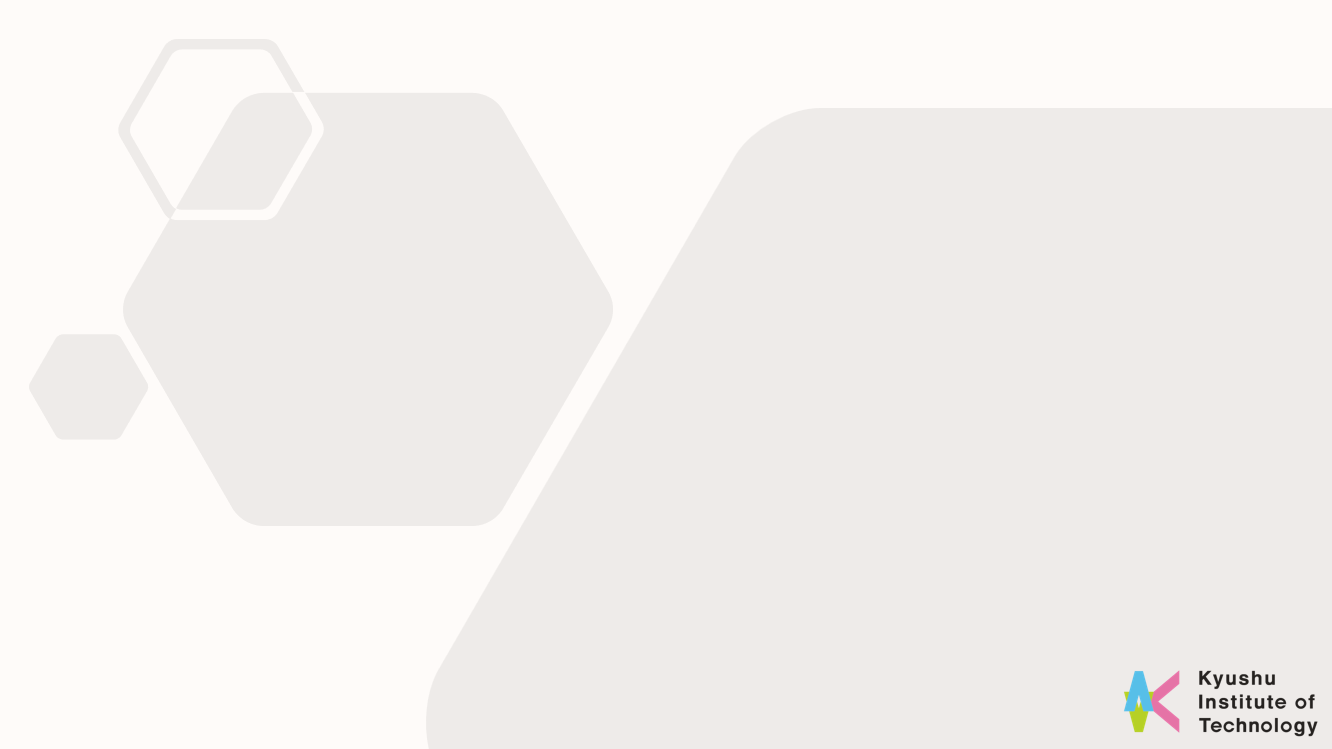
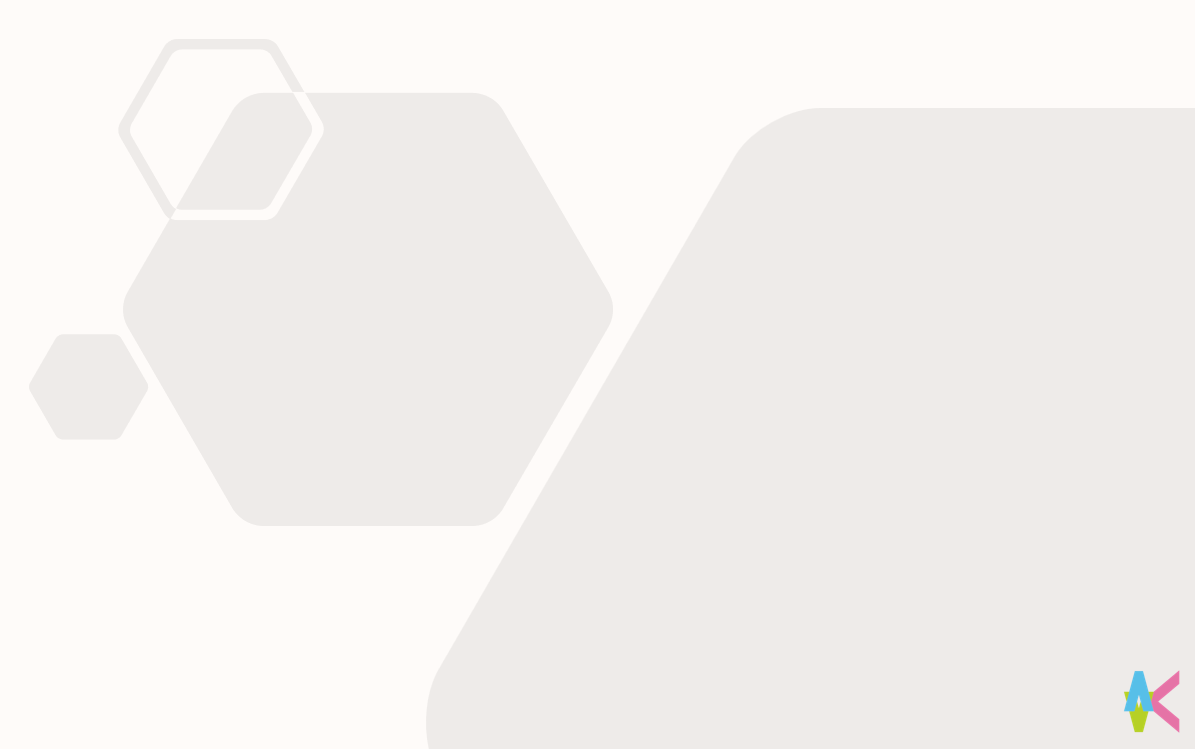
update

Changed region(s): [[0.836, 0.8905, 0.9908, 0.9826]]

diff --git a/assets/css/stylesheet.c0bc5397c47289b6b395cd22d25492a194bec78556b727e34a45e0264eb4318d.css b/assets/css/stylesheet.c0bc5397c47289b6b395cd22d25492a194bec78556b727e34a45e0264eb4318d.css
@@ -1,0 +1,7 @@
+/*
+  PaperMod v8+
+  License: MIT https://github.com/adityatelange/hugo-PaperMod/blob/master/LICENSE
+  Copyright (c) 2020 nanxiaobei and adityatelange
+  Copyright (c) 2021-2026 adityatelange
+*/
+:root{--gap:24px;--content-gap:20px;--nav-width:1024px;--main-width:720px;--header-height:60px;--footer-height:60px;--radius:8px;--theme:rgb(255, 255, 255);--entry:rgb(255, 255, 255);--primary:rgb(30, 30, 30);--secondary:rgb(108, 108, 108);--tertiary:rgb(214, 214, 214);--content:rgb(31, 31, 31);--code-block-bg:rgb(28, 29, 33);--code-bg:rgb(245, 245, 245);--border:rgb(238, 238, 238);color-scheme:light}:root[data-theme=dark]{--theme:rgb(29, 30, 32);--entry:rgb(46, 46, 51);--primary:rgb(218, 218, 219);--secondary:rgb(155, 156, 157);--tertiary:rgb(65, 66, 68);--content:rgb(196, 196, 197);--code-block-bg:rgb(46, 46, 51);--code-bg:rgb(55, 56, 62);--border:rgb(51, 51, 51);color-scheme:dark}.list{background:var(--code-bg)}[data-theme=dark] .list{background:var(--theme)}*,::after,::before{box-sizing:border-box}html{-webkit-tap-highlight-color:transparent;overflow-y:scroll;-webkit-text-size-adjust:100%;text-size-adjust:100%}a,button,body,h1,h2,h3,h4,h5,h6{color:var(--primary)}body{font-family:-apple-system,BlinkMacSystemFont,segoe ui,Roboto,Oxygen,Ubuntu,Cantarell,open sans,helvetica neue,sans-serif;font-size:18px;line-height:1.6;word-break:break-word;background:var(--theme)}article,aside,figcaption,figure,footer,header,hgroup,main,nav,section,table{display:block}h1,h2,h3,h4,h5,h6{line-height:1.2}h1,h2,h3,h4,h5,h6,p{margin-top:0;margin-bottom:0}ul{padding:0}a{text-decoration:none}body,figure,ul{margin:0}table{width:100%;border-collapse:collapse;border-spacing:0;overflow-x:auto;word-break:keep-all}button,input,textarea{padding:0;font:inherit;background:0 0;border:0}input,textarea{outline:0}button,input[type=button],input[type=submit]{cursor:pointer}input:-webkit-autofill,textarea:-webkit-autofill{box-shadow:0 0 0 50px var(--theme)inset}img{display:block;max-width:100%}.not-found{position:absolute;left:0;right:0;display:flex;align-items:center;justify-content:center;height:80%;font-size:160px;font-weight:700}.archive-posts{width:100%;font-size:16px}.archive-year{margin-top:40px}.archive-year:not(:last-of-type){border-bottom:2px solid var(--border)}.archive-month{display:flex;align-items:flex-start;padding:10px 0}.archive-month-header{margin:25px 0;width:200px}.archive-month:not(:last-of-type){border-bottom:1px solid var(--border)}.archive-entry{position:relative;padding:5px;margin:10px 0}.archive-entry-title{margin:5px 0;font-weight:400}.archive-count,.archive-meta{color:var(--secondary);font-size:14px}.footer,.top-link{font-size:12px;color:var(--secondary)}.footer{max-width:calc(var(--main-width) + var(--gap) * 2);margin:auto;padding:calc((var(--footer-height) - var(--gap))/2)var(--gap);text-align:center;line-height:24px}.footer span{margin-inline-start:1px;margin-inline-end:1px}.footer span:last-child{white-space:nowrap}.footer a{color:inherit;text-underline-offset:.25rem;text-decoration:underline}.top-link{position:fixed;bottom:4rem;right:2rem;z-index:99;background:var(--tertiary);width:2.5rem;height:2.5rem;padding:10px;border-radius:64px;transition:visibility .3s,opacity .3s cubic-bezier(.4,0,1,1)}.hidden{visibility:hidden;opacity:0}.top-link,.top-link svg{filter:drop-shadow(0 0 0 var(--theme))}.footer a:hover,.top-link:hover{color:var(--primary)}.header-nav{display:flex;flex-wrap:wrap;justify-content:space-between;max-width:calc(var(--nav-width) + var(--gap) * 2);margin:auto;line-height:var(--header-height);padding:0 var(--gap);column-gap:var(--gap)}.header-nav a{display:block}.logo,.menu{display:flex}.logo{align-items:center;column-gap:.55rem;flex-wrap:wrap}.logo a{font-size:24px;font-weight:700;display:flex;align-items:center;column-gap:.55rem}.logo a img,.logo a svg{pointer-events:none;border-radius:6px}.theme-toggle{padding:0 .4rem}[data-theme=dark] .moon{display:none}[data-theme=light] .sun{display:none}.logo-switches{display:inline-flex;gap:.4rem;align-items:inherit;min-height:stretch;flex-wrap:inherit}.logo-switches>*{min-height:inherit;align-items:center;display:inline-flex}.lang-menu *{display:inherit;min-height:inherit;align-items:inherit}.lang-menu a{font-size:1rem;font-weight:500;padding:0 .4rem;display:inline-flex}.menu{list-style:none;word-break:keep-all;overflow-x:auto;white-space:nowrap;column-gap:var(--gap)}.menu a{font-size:16px}.menu .active{font-weight:500;text-decoration:underline;text-underline-offset:.3rem;text-decoration-thickness:2px}.main{position:relative;min-height:calc(100vh - var(--header-height) - var(--footer-height));max-width:calc(var(--main-width) + var(--gap) * 2);margin:auto;padding:var(--gap)}.page-header h1{font-size:40px}.pagination{display:flex}.pagination a{color:var(--theme);font-size:13px;line-height:36px;background:var(--primary);border-radius:calc(36px/2);padding:0 16px}.pagination .next{margin-inline-start:auto}.social-icons a{display:inline-flex;padding:10px}.social-icons a svg{height:26px;width:26px}code{direction:ltr}div.highlight,pre{position:relative}.copy-code{display:none;position:absolute;top:4px;right:4px;color:rgba(255,255,255,.8);background:rgba(78,78,78,.8);border-radius:var(--radius);padding:0 5px;font-size:14px;user-select:none}div.highlight:hover .copy-code,pre:hover .copy-code{display:block}.md-content h3,.md-content h4,.md-content h5,.md-content h6{margin:24px 0 16px}.md-content h1{margin:40px auto 32px;font-size:40px}.md-content h2{margin:32px auto 24px;font-size:32px}.md-content h3{font-size:24px}.md-content h4{font-size:16px}.md-content h5{font-size:14px}.md-content h6{font-size:12px}.md-content a:not(.anchor){text-underline-offset:.3rem;text-decoration:underline}.md-content del{text-decoration:line-through}.md-content dl:not(:last-child),.md-content ol:not(:last-child),.md-content p:not(:last-child),.md-content figure:not(:last-child),.md-content ul:not(:last-child){margin-bottom:var(--content-gap)}.md-content ol,.md-content ul{padding-inline-start:1.25rem}.md-content li{margin-top:.3rem}.md-content li p{margin-bottom:0}.md-content dl{display:flex;flex-wrap:wrap;margin:0}.md-content dt{width:25%;font-weight:700}.md-content dd{width:75%;margin-inline-start:0;padding-inline-start:10px}.md-content dd~dd,.md-content dt~dt{margin-top:10px}.md-content table{margin-bottom:var(--content-gap)}.md-content table th,.md-content table:not(.highlighttable,.highlight table,.gist .highlight) td{min-width:80px;padding:6px 13px;line-height:1.5;border:1px solid var(--border)}.md-content table th{text-align:start}.md-content table:not(.highlighttable) td code:only-child{margin:auto 0}.md-content .highlight table{border-radius:var(--radius)}.md-content .highlight:not(table){margin-bottom:var(--content-gap);background:var(--code-block-bg)!important;border-radius:var(--radius);direction:ltr}.md-content li>.highlight{margin-inline-end:0}.md-content ul pre{margin-inline-start:calc(var(--gap) * -2)}.md-content .highlight pre{margin:0}.md-content .highlighttable{table-layout:fixed}.md-content .highlighttable td:first-child{width:40px}.md-content .highlighttable td .linenodiv{padding-inline-end:0!important}.md-content .highlighttable td .highlight,.md-content .highlighttable td .linenodiv pre{margin-bottom:0}.post-content code{padding:.2rem .3rem;font-size:.78em;line-height:1.5;background:var(--code-bg);border-radius:.2rem}.md-content pre code{display:grid;margin:auto 0;padding:10px;color:#d5d5d6;background:var(--code-block-bg)!important;border-radius:var(--radius);overflow-x:auto;word-break:break-all}.md-content blockquote{margin:1rem 0;padding-inline-start:1rem;border-inline-start:.3rem solid var(--content)}.md-content hr{margin:30px 0;height:2px;background:var(--tertiary);border:0}.md-content iframe{max-width:100%}.md-content img{border-radius:var(--radius);margin:1rem 0}.md-content img[src*="#center"]{margin:1rem auto}.md-content figure.align-center{text-align:center}.md-content figure>figcaption{color:var(--primary);font-size:16px;font-weight:700;margin:8px 0 16px}.md-content figure>figcaption>p{color:var(--secondary);font-size:14px;font-weight:400}.md-content h1:hover .anchor,.md-content h2:hover .anchor,.md-content h3:hover .anchor,.md-content h4:hover .anchor,.md-content h5:hover .anchor,.md-content h6:hover .anchor{display:inline-flex;color:var(--secondary);margin-inline-start:.5em;font-weight:500;user-select:none}.anchor:hover{color:var(--content)!important}.md-content img.in-text{display:inline;margin:auto}mark{border-radius:2px;padding:0 2px}audio{display:block;width:100%;border:1px solid var(--border);border-radius:var(--radius);overflow:hidden;height:2.5rem;margin-bottom:var(--content-gap)}audio::-webkit-media-controls-enclosure{border-radius:0}video{border:1px solid var(--code-bg);border-radius:var(--radius);max-width:100%}.first-entry{position:relative;display:flex;flex-direction:column;justify-content:center;min-height:320px;margin:var(--gap)0 calc(var(--gap) * 2)}.first-entry .entry-header{overflow:hidden;display:-webkit-box;-webkit-box-orient:vertical;-webkit-line-clamp:3}.first-entry .entry-header h1{font-size:34px;line-height:1.3}.first-entry .entry-header h2{font-size:40px}.first-entry .entry-content{margin:14px 0;font-size:16px;-webkit-line-clamp:3}.first-entry .entry-footer{font-size:14px}.home-info .entry-content{--content-gap:0.5rem;-webkit-line-clamp:unset;margin:0}.home-info .social-icons a:first-of-type{padding-inline-start:0}.post-entry{position:relative;margin-bottom:var(--gap);padding:var(--gap);background:var(--entry);border-radius:var(--radius);transition:transform .25s ease;border:1px solid var(--border)}.post-entry:hover,.post-entry:focus-within{transform:translateY(-2px);border-color:var(--tertiary)}.tag-entry .entry-cover{display:none}.entry-header h2{font-size:24px;line-height:1.3}.entry-content{margin:8px 0;color:var(--secondary);font-size:14px;line-height:1.6;overflow:hidden;display:-webkit-box;-webkit-box-orient:vertical;-webkit-line-clamp:2}.home-info .entry-content p{margin-block-start:1em;margin-block-end:1em}.entry-footer{color:var(--secondary);font-size:13px}.entry-link{position:absolute;left:0;right:0;top:0;bottom:0;border-radius:var(--radius)}.entry-hint{color:var(--secondary)}.entry-hint-parent{display:flex;justify-content:space-between}.entry-cover{font-size:14px;margin-bottom:var(--gap);text-align:center;display:flex;flex-direction:column;gap:.5rem}.entry-cover img{border-radius:var(--radius);width:100%;height:auto}.entry-cover a{text-underline-offset:.3rem;text-decoration:underline}.page-header,.post-header{margin:24px auto var(--content-gap)}.post-title{font-size:40px}.post-description{margin-top:10px}.post-meta{margin-top:5px}.post-meta,.breadcrumbs{color:var(--secondary);font-size:14px}.breadcrumbs{display:flex;flex-wrap:wrap;align-items:center;gap:.2rem}.breadcrumbs a{font-size:16px}.breadcrumbs svg{height:1em}.i18n_list{display:inline-flex}.post-meta .i18n_list li{list-style:none;margin:auto 3px}.post-meta a,.toc a:hover{text-underline-offset:.3rem;text-decoration:underline}.post-meta a{color:var(--secondary);text-decoration-style:dotted}details.toc{margin-bottom:var(--content-gap);background:var(--code-bg);border-radius:var(--radius);border:1px solid var(--border)}[data-theme=dark] details.toc{background:var(--entry)}details.toc summary{padding:.5rem 1.2rem;border-radius:var(--radius)}details summary{cursor:pointer;display:list-item;width:100%;margin-inline-start:0;user-select:none}details .title{display:inline;font-weight:500;margin-inline-start:.2rem}details{interpolate-size:allow-keywords}details::details-content{height:0;opacity:0;overflow:clip;transition:height 150ms ease,opacity 150ms ease,content-visibility 150ms allow-discrete}details[open]::details-content{height:auto;opacity:1}details .inner{margin:0 2.4rem;padding-bottom:.6rem}details li ul{margin-inline-start:var(--gap)}.post-content{color:var(--content);margin:30px 0}.post-footer{margin-top:var(--content-gap)}.post-footer>*{margin-bottom:10px}.post-tags{display:flex;flex-wrap:wrap;gap:10px}.post-tags li{display:inline-block}.post-tags a,.share-buttons,.paginav{border-radius:var(--radius);background:var(--code-bg);border:1px solid var(--border)}.post-tags a{display:block;padding:0 14px;color:var(--secondary);font-size:14px;line-height:34px;background:var(--code-bg)}.post-tags a:hover,.paginav a:hover{background:var(--border)}.share-buttons{padding:10px;display:flex;justify-content:center;overflow-x:auto;gap:10px}.share-buttons li,.share-buttons a{display:inline-flex}.share-buttons a:not(:last-of-type){margin-inline-end:12px}.paginav{display:flex;line-height:1.2}.paginav .title{letter-spacing:1px;text-transform:uppercase;font-size:.8rem;color:var(--secondary)}.paginav a{width:50%;display:flex;flex-direction:column;gap:.5rem;padding:.8rem;border-radius:var(--radius)}.paginav span:hover:not(.title){text-underline-offset:.2rem;text-decoration:underline}.paginav .next{margin-inline-start:auto;text-align:right}[dir=rtl] .paginav .next{text-align:left}h1>a>svg{display:inline}.buttons,.main .profile{display:flex;justify-content:center}.main .profile{align-items:center;min-height:calc(100vh - var(--header-height) - var(--footer-height) - (var(--gap) * 2));text-align:center}.profile .profile_inner{display:flex;flex-direction:column;align-items:center;gap:1rem}.profile img{border-radius:50%}.buttons{flex-wrap:wrap;max-width:400px;gap:1rem}.button{background:var(--tertiary);border-radius:var(--radius);padding:.4rem .8rem}.searchbox input{padding:4px 10px;width:100%;color:var(--primary);font-weight:700;border:2px solid var(--tertiary);border-radius:var(--radius)}.searchResults li{list-style:none;border-radius:var(--radius);padding:10px 15px;position:relative;font-weight:500;display:flex;align-items:center;justify-content:space-between;background:var(--entry);transition:transform .25s ease;border:1px solid var(--border)}.searchResults{margin:var(--content-gap)0;width:100%;display:flex;flex-direction:column;gap:10px}.searchResults li:hover,.searchResults li:focus-within{transform:translateY(-2px);border-color:var(--tertiary)}.searchResults li .entry-link:focus{outline:2px solid var(--secondary);outline-offset:-2px}.terms-tags{display:flex;flex-wrap:wrap;gap:1em;margin-top:var(--content-gap)}.terms-tags li{display:inline-block;font-weight:500}.terms-tags a{display:block;padding:4px 10px;background:var(--tertiary);border-radius:var(--radius);transition:transform .1s}.bg{color:#cad3f5;background-color:#24273a}.chroma{color:#cad3f5;background-color:#24273a}.chroma .err{color:#ed8796}.chroma .lnlinks{outline:none;text-decoration:none;color:inherit}.chroma .lntd{vertical-align:top;padding:0;margin:0;border:0}.chroma .lntable{border-spacing:0;padding:0;margin:0;border:0}.chroma .hl{background-color:#474733}.chroma .lnt{white-space:pre;-webkit-user-select:none;user-select:none;margin-right:.4em;padding:0 .4em;color:#8087a2}.chroma .ln{white-space:pre;-webkit-user-select:none;user-select:none;margin-right:.4em;padding:0 .4em;color:#8087a2}.chroma .line{display:flex}.chroma .k{color:#c6a0f6}.chroma .kc{color:#f5a97f}.chroma .kd{color:#ed8796}.chroma .kn{color:#8bd5ca}.chroma .kp{color:#c6a0f6}.chroma .kr{color:#c6a0f6}.chroma .kt{color:#ed8796}.chroma .na{color:#8aadf4}.chroma .nb{color:#91d7e3}.chroma .bp{color:#91d7e3}.chroma .nc{color:#eed49f}.chroma .no{color:#eed49f}.chroma .nd{color:#8aadf4;font-weight:700}.chroma .ni{color:#8bd5ca}.chroma .ne{color:#f5a97f}.chroma .nf{color:#8aadf4}.chroma .fm{color:#8aadf4}.chroma .nl{color:#91d7e3}.chroma .nn{color:#f5a97f}.chroma .py{color:#f5a97f}.chroma .nt{color:#c6a0f6}.chroma .nv{color:#f4dbd6}.chroma .vc{color:#f4dbd6}.chroma .vg{color:#f4dbd6}.chroma .vi{color:#f4dbd6}.chroma .vm{color:#f4dbd6}.chroma .s{color:#a6da95}.chroma .sa{color:#ed8796}.chroma .sb{color:#a6da95}.chroma .sc{color:#a6da95}.chroma .dl{color:#8aadf4}.chroma .sd{color:#6e738d}.chroma .s2{color:#a6da95}.chroma .se{color:#8aadf4}.chroma .sh{color:#6e738d}.chroma .si{color:#a6da95}.chroma .sx{color:#a6da95}.chroma .sr{color:#8bd5ca}.chroma .s1{color:#a6da95}.chroma .ss{color:#a6da95}.chroma .m{color:#f5a97f}.chroma .mb{color:#f5a97f}.chroma .mf{color:#f5a97f}.chroma .mh{color:#f5a97f}.chroma .mi{color:#f5a97f}.chroma .il{color:#f5a97f}.chroma .mo{color:#f5a97f}.chroma .o{color:#91d7e3;font-weight:700}.chroma .ow{color:#91d7e3;font-weight:700}.chroma .c{color:#6e738d;font-style:italic}.chroma .ch{color:#6e738d;font-style:italic}.chroma .cm{color:#6e738d;font-style:italic}.chroma .c1{color:#6e738d;font-style:italic}.chroma .cs{color:#6e738d;font-style:italic}.chroma .cp{color:#6e738d;font-style:italic}.chroma .cpf{color:#6e738d;font-weight:700;font-style:italic}.chroma .gd{color:#ed8796;background-color:#363a4f}.chroma .ge{font-style:italic}.chroma .gr{color:#ed8796}.chroma .gh{color:#f5a97f;font-weight:700}.chroma .gi{color:#a6da95;background-color:#363a4f}.chroma .gs{font-weight:700}.chroma .gu{color:#f5a97f;font-weight:700}.chroma .gt{color:#ed8796}.chroma .gl{text-decoration:underline}.chroma{background-color:unset!important}.chroma .hl{display:flex}.chroma .lnt{padding:0 0 0 12px}.highlight pre.chroma code{padding:8px 0}.highlight pre.chroma .line .cl,.chroma .ln{padding:0 10px}.chroma .lntd:last-of-type{width:100%}@media screen and (max-width:768px){:root{--gap:14px}.profile img{transform:scale(.85)}.first-entry{min-height:260px}.archive-month{flex-direction:column}.archive-year{margin-top:20px}.footer{padding:calc((var(--footer-height) - var(--gap) - 10px)/2)var(--gap)}}@media screen and (max-width:900px){.list .top-link{transform:translateY(-5rem)}}@media screen and (max-width:340px){.share-buttons{justify-content:unset}}@media(prefers-reduced-motion){.terms-tags a:active,.button:active,.post-entry:active,.top-link,.searchResults .focus,.searchResults li:active{transform:none}}.faculty,.students{display:flex;flex-wrap:wrap}.card{text-align:center;margin:15px;width:150px}.faculty-card img{width:150px;height:150px;object-fit:cover;border-radius:8px}.student-card img{width:100px;height:100px;object-fit:cover;border-radius:8px;display:block;margin:0 auto}.name{margin-top:8px;font-weight:700;font-size:13px;position:static;transform:none}.role{font-size:.8em}.alumni summary{list-style:none}.alumni summary::-webkit-details-marker{display:none}.alumni summary{font-weight:700;cursor:pointer;padding:10px 15px;background:#f5f5f5;border-radius:8px;position:relative;transition:.2s}.alumni summary:hover{background:#eaeaea}.alumni summary::after{content:"+";position:absolute;right:15px;font-size:18px;transition:.2s}.alumni[open] summary::after{content:"−"}.alumni ul{margin-top:8px;padding-left:20px}.alumni ul{list-style:none;padding-left:0}body::before{content:"";position:fixed;top:0;left:0;width:100%;height:100%;background-image:url(/Materials-strength-website/images/bg1.png);background-size:cover;opacity:.6;z-index:-1}.header,.nav{background-color:rgba(0,0,0,.194);backdrop-filter:blur(8px);border-bottom:1px solid rgba(255,255,255,.15)}.nav a{color:#fff!important}.hero-slider{position:relative;width:100%;height:400px;overflow:hidden;margin:20px 0}.hero-slider img{position:absolute;width:100%;height:100%;object-fit:cover;opacity:0;transition:opacity 1s ease-in-out;border-radius:0!important}.hero-slider img.active{opacity:1}

diff --git a/assets/css/extended/custom.css b/assets/css/extended/custom.css
@@ -103,7 +103,7 @@ body::before {
   height: 100%;
   background-image: url('/Materials-strength-website/images/bg1.png');
   background-size: cover;
-  opacity: 0.3;
+  opacity: 0.6;
   z-index: -1;
 }
 

diff --git a/en/404.html b/en/404.html
@@ -10,7 +10,7 @@
 <meta name="description" content="">
 <meta name="author" content="">
 <link rel="canonical" href="https://yota5555yota-lab.github.io/Materials-strength-website/en/404.html">
-<link crossorigin="anonymous" href="/Materials-strength-website/assets/css/stylesheet.3bfeff56032849322ce4ea113ce947bde1f2f1f1651d9b1ce74cafec1d824e87.css" integrity="sha256-O/7/VgMoSTIs5OoRPOlHveHy8fFlHZsc50yv7B2CToc=" rel="preload stylesheet" as="style">
+<link crossorigin="anonymous" href="/Materials-strength-website/assets/css/stylesheet.c0bc5397c47289b6b395cd22d25492a194bec78556b727e34a45e0264eb4318d.css" integrity="sha256-wLxTl8Ryibazlc0i0lSSoZS&#43;x4VWtyfjSkXgJk60MY0=" rel="preload stylesheet" as="style">
 <link rel="icon" href="https://yota5555yota-lab.github.io/Materials-strength-website/favicon.ico">
 <link rel="icon" type="image/png" sizes="16x16" href="https://yota5555yota-lab.github.io/Materials-strength-website/favicon-16x16.png">
 <link rel="icon" type="image/png" sizes="32x32" href="https://yota5555yota-lab.github.io/Materials-strength-website/favicon-32x32.png">

diff --git a/en/access/index.html b/en/access/index.html
@@ -22,7 +22,7 @@ Map
 ">
 <meta name="author" content="">
 <link rel="canonical" href="https://yota5555yota-lab.github.io/Materials-strength-website/en/access/">
-<link crossorigin="anonymous" href="/Materials-strength-website/assets/css/stylesheet.3bfeff56032849322ce4ea113ce947bde1f2f1f1651d9b1ce74cafec1d824e87.css" integrity="sha256-O/7/VgMoSTIs5OoRPOlHveHy8fFlHZsc50yv7B2CToc=" rel="preload stylesheet" as="style">
+<link crossorigin="anonymous" href="/Materials-strength-website/assets/css/stylesheet.c0bc5397c47289b6b395cd22d25492a194bec78556b727e34a45e0264eb4318d.css" integrity="sha256-wLxTl8Ryibazlc0i0lSSoZS&#43;x4VWtyfjSkXgJk60MY0=" rel="preload stylesheet" as="style">
 <link rel="icon" href="https://yota5555yota-lab.github.io/Materials-strength-website/favicon.ico">
 <link rel="icon" type="image/png" sizes="16x16" href="https://yota5555yota-lab.github.io/Materials-strength-website/favicon-16x16.png">
 <link rel="icon" type="image/png" sizes="32x32" href="https://yota5555yota-lab.github.io/Materials-strength-website/favicon-32x32.png">

diff --git a/en/categories/index.html b/en/categories/index.html
@@ -10,7 +10,7 @@
 <meta name="description" content="">
 <meta name="author" content="">
 <link rel="canonical" href="https://yota5555yota-lab.github.io/Materials-strength-website/en/categories/">
-<link crossorigin="anonymous" href="/Materials-strength-website/assets/css/stylesheet.3bfeff56032849322ce4ea113ce947bde1f2f1f1651d9b1ce74cafec1d824e87.css" integrity="sha256-O/7/VgMoSTIs5OoRPOlHveHy8fFlHZsc50yv7B2CToc=" rel="preload stylesheet" as="style">
+<link crossorigin="anonymous" href="/Materials-strength-website/assets/css/stylesheet.c0bc5397c47289b6b395cd22d25492a194bec78556b727e34a45e0264eb4318d.css" integrity="sha256-wLxTl8Ryibazlc0i0lSSoZS&#43;x4VWtyfjSkXgJk60MY0=" rel="preload stylesheet" as="style">
 <link rel="icon" href="https://yota5555yota-lab.github.io/Materials-strength-website/favicon.ico">
 <link rel="icon" type="image/png" sizes="16x16" href="https://yota5555yota-lab.github.io/Materials-strength-website/favicon-16x16.png">
 <link rel="icon" type="image/png" sizes="32x32" href="https://yota5555yota-lab.github.io/Materials-strength-website/favicon-32x32.png">

diff --git a/en/contact/index.html b/en/contact/index.html
@@ -36,7 +36,7 @@ If you are interested in our research, please feel free to contact us by email.
 ">
 <meta name="author" content="">
 <link rel="canonical" href="https://yota5555yota-lab.github.io/Materials-strength-website/en/contact/">
-<link crossorigin="anonymous" href="/Materials-strength-website/assets/css/stylesheet.3bfeff56032849322ce4ea113ce947bde1f2f1f1651d9b1ce74cafec1d824e87.css" integrity="sha256-O/7/VgMoSTIs5OoRPOlHveHy8fFlHZsc50yv7B2CToc=" rel="preload stylesheet" as="style">
+<link crossorigin="anonymous" href="/Materials-strength-website/assets/css/stylesheet.c0bc5397c47289b6b395cd22d25492a194bec78556b727e34a45e0264eb4318d.css" integrity="sha256-wLxTl8Ryibazlc0i0lSSoZS&#43;x4VWtyfjSkXgJk60MY0=" rel="preload stylesheet" as="style">
 <link rel="icon" href="https://yota5555yota-lab.github.io/Materials-strength-website/favicon.ico">
 <link rel="icon" type="image/png" sizes="16x16" href="https://yota5555yota-lab.github.io/Materials-strength-website/favicon-16x16.png">
 <link rel="icon" type="image/png" sizes="32x32" href="https://yota5555yota-lab.github.io/Materials-strength-website/favicon-32x32.png">

diff --git a/en/index.html b/en/index.html
@@ -11,7 +11,7 @@
 <meta name="description" content="">
 <meta name="author" content="">
 <link rel="canonical" href="https://yota5555yota-lab.github.io/Materials-strength-website/en/">
-<link crossorigin="anonymous" href="/Materials-strength-website/assets/css/stylesheet.3bfeff56032849322ce4ea113ce947bde1f2f1f1651d9b1ce74cafec1d824e87.css" integrity="sha256-O/7/VgMoSTIs5OoRPOlHveHy8fFlHZsc50yv7B2CToc=" rel="preload stylesheet" as="style">
+<link crossorigin="anonymous" href="/Materials-strength-website/assets/css/stylesheet.c0bc5397c47289b6b395cd22d25492a194bec78556b727e34a45e0264eb4318d.css" integrity="sha256-wLxTl8Ryibazlc0i0lSSoZS&#43;x4VWtyfjSkXgJk60MY0=" rel="preload stylesheet" as="style">
 <link rel="icon" href="https://yota5555yota-lab.github.io/Materials-strength-website/favicon.ico">
 <link rel="icon" type="image/png" sizes="16x16" href="https://yota5555yota-lab.github.io/Materials-strength-website/favicon-16x16.png">
 <link rel="icon" type="image/png" sizes="32x32" href="https://yota5555yota-lab.github.io/Materials-strength-website/favicon-32x32.png">

diff --git a/en/members/index.html b/en/members/index.html
@@ -192,7 +192,7 @@ Graduates
   ">
 <meta name="author" content="">
 <link rel="canonical" href="https://yota5555yota-lab.github.io/Materials-strength-website/en/members/">
-<link crossorigin="anonymous" href="/Materials-strength-website/assets/css/stylesheet.3bfeff56032849322ce4ea113ce947bde1f2f1f1651d9b1ce74cafec1d824e87.css" integrity="sha256-O/7/VgMoSTIs5OoRPOlHveHy8fFlHZsc50yv7B2CToc=" rel="preload stylesheet" as="style">
+<link crossorigin="anonymous" href="/Materials-strength-website/assets/css/stylesheet.c0bc5397c47289b6b395cd22d25492a194bec78556b727e34a45e0264eb4318d.css" integrity="sha256-wLxTl8Ryibazlc0i0lSSoZS&#43;x4VWtyfjSkXgJk60MY0=" rel="preload stylesheet" as="style">
 <link rel="icon" href="https://yota5555yota-lab.github.io/Materials-strength-website/favicon.ico">
 <link rel="icon" type="image/png" sizes="16x16" href="https://yota5555yota-lab.github.io/Materials-strength-website/favicon-16x16.png">
 <link rel="icon" type="image/png" sizes="32x32" href="https://yota5555yota-lab.github.io/Materials-strength-website/favicon-32x32.png">

diff --git a/en/mission/index.html b/en/mission/index.html
@@ -27,7 +27,7 @@ Collaboration with industry and other institutions
 ">
 <meta name="author" content="">
 <link rel="canonical" href="https://yota5555yota-lab.github.io/Materials-strength-website/en/mission/">
-<link crossorigin="anonymous" href="/Materials-strength-website/assets/css/stylesheet.3bfeff56032849322ce4ea113ce947bde1f2f1f1651d9b1ce74cafec1d824e87.css" integrity="sha256-O/7/VgMoSTIs5OoRPOlHveHy8fFlHZsc50yv7B2CToc=" rel="preload stylesheet" as="style">
+<link crossorigin="anonymous" href="/Materials-strength-website/assets/css/stylesheet.c0bc5397c47289b6b395cd22d25492a194bec78556b727e34a45e0264eb4318d.css" integrity="sha256-wLxTl8Ryibazlc0i0lSSoZS&#43;x4VWtyfjSkXgJk60MY0=" rel="preload stylesheet" as="style">
 <link rel="icon" href="https://yota5555yota-lab.github.io/Materials-strength-website/favicon.ico">
 <link rel="icon" type="image/png" sizes="16x16" href="https://yota5555yota-lab.github.io/Materials-strength-website/favicon-16x16.png">
 <link rel="icon" type="image/png" sizes="32x32" href="https://yota5555yota-lab.github.io/Materials-strength-website/favicon-32x32.png">

diff --git a/en/publications/index.html b/en/publications/index.html
@@ -52,7 +52,7 @@ Others
 ">
 <meta name="author" content="">
 <link rel="canonical" href="https://yota5555yota-lab.github.io/Materials-strength-website/en/publications/">
-<link crossorigin="anonymous" href="/Materials-strength-website/assets/css/stylesheet.3bfeff56032849322ce4ea113ce947bde1f2f1f1651d9b1ce74cafec1d824e87.css" integrity="sha256-O/7/VgMoSTIs5OoRPOlHveHy8fFlHZsc50yv7B2CToc=" rel="preload stylesheet" as="style">
+<link crossorigin="anonymous" href="/Materials-strength-website/assets/css/stylesheet.c0bc5397c47289b6b395cd22d25492a194bec78556b727e34a45e0264eb4318d.css" integrity="sha256-wLxTl8Ryibazlc0i0lSSoZS&#43;x4VWtyfjSkXgJk60MY0=" rel="preload stylesheet" as="style">
 <link rel="icon" href="https://yota5555yota-lab.github.io/Materials-strength-website/favicon.ico">
 <link rel="icon" type="image/png" sizes="16x16" href="https://yota5555yota-lab.github.io/Materials-strength-website/favicon-16x16.png">
 <link rel="icon" type="image/png" sizes="32x32" href="https://yota5555yota-lab.github.io/Materials-strength-website/favicon-32x32.png">

diff --git a/en/tags/index.html b/en/tags/index.html
@@ -10,7 +10,7 @@
 <meta name="description" content="">
 <meta name="author" content="">
 <link rel="canonical" href="https://yota5555yota-lab.github.io/Materials-strength-website/en/tags/">
-<link crossorigin="anonymous" href="/Materials-strength-website/assets/css/stylesheet.3bfeff56032849322ce4ea113ce947bde1f2f1f1651d9b1ce74cafec1d824e87.css" integrity="sha256-O/7/VgMoSTIs5OoRPOlHveHy8fFlHZsc50yv7B2CToc=" rel="preload stylesheet" as="style">
+<link crossorigin="anonymous" href="/Materials-strength-website/assets/css/stylesheet.c0bc5397c47289b6b395cd22d25492a194bec78556b727e34a45e0264eb4318d.css" integrity="sha256-wLxTl8Ryibazlc0i0lSSoZS&#43;x4VWtyfjSkXgJk60MY0=" rel="preload stylesheet" as="style">
 <link rel="icon" href="https://yota5555yota-lab.github.io/Materials-strength-website/favicon.ico">
 <link rel="icon" type="image/png" sizes="16x16" href="https://yota5555yota-lab.github.io/Materials-strength-website/favicon-16x16.png">
 <link rel="icon" type="image/png" sizes="32x32" href="https://yota5555yota-lab.github.io/Materials-strength-website/favicon-32x32.png">

diff --git a/ja/404.html b/ja/404.html
@@ -10,7 +10,7 @@
 <meta name="description" content="">
 <meta name="author" content="">
 <link rel="canonical" href="https://yota5555yota-lab.github.io/Materials-strength-website/ja/404.html">
-<link crossorigin="anonymous" href="/Materials-strength-website/assets/css/stylesheet.3bfeff56032849322ce4ea113ce947bde1f2f1f1651d9b1ce74cafec1d824e87.css" integrity="sha256-O/7/VgMoSTIs5OoRPOlHveHy8fFlHZsc50yv7B2CToc=" rel="preload stylesheet" as="style">
+<link crossorigin="anonymous" href="/Materials-strength-website/assets/css/stylesheet.c0bc5397c47289b6b395cd22d25492a194bec78556b727e34a45e0264eb4318d.css" integrity="sha256-wLxTl8Ryibazlc0i0lSSoZS&#43;x4VWtyfjSkXgJk60MY0=" rel="preload stylesheet" as="style">
 <link rel="icon" href="https://yota5555yota-lab.github.io/Materials-strength-website/favicon.ico">
 <link rel="icon" type="image/png" sizes="16x16" href="https://yota5555yota-lab.github.io/Materials-strength-website/favicon-16x16.png">
 <link rel="icon" type="image/png" sizes="32x32" href="https://yota5555yota-lab.github.io/Materials-strength-website/favicon-32x32.png">